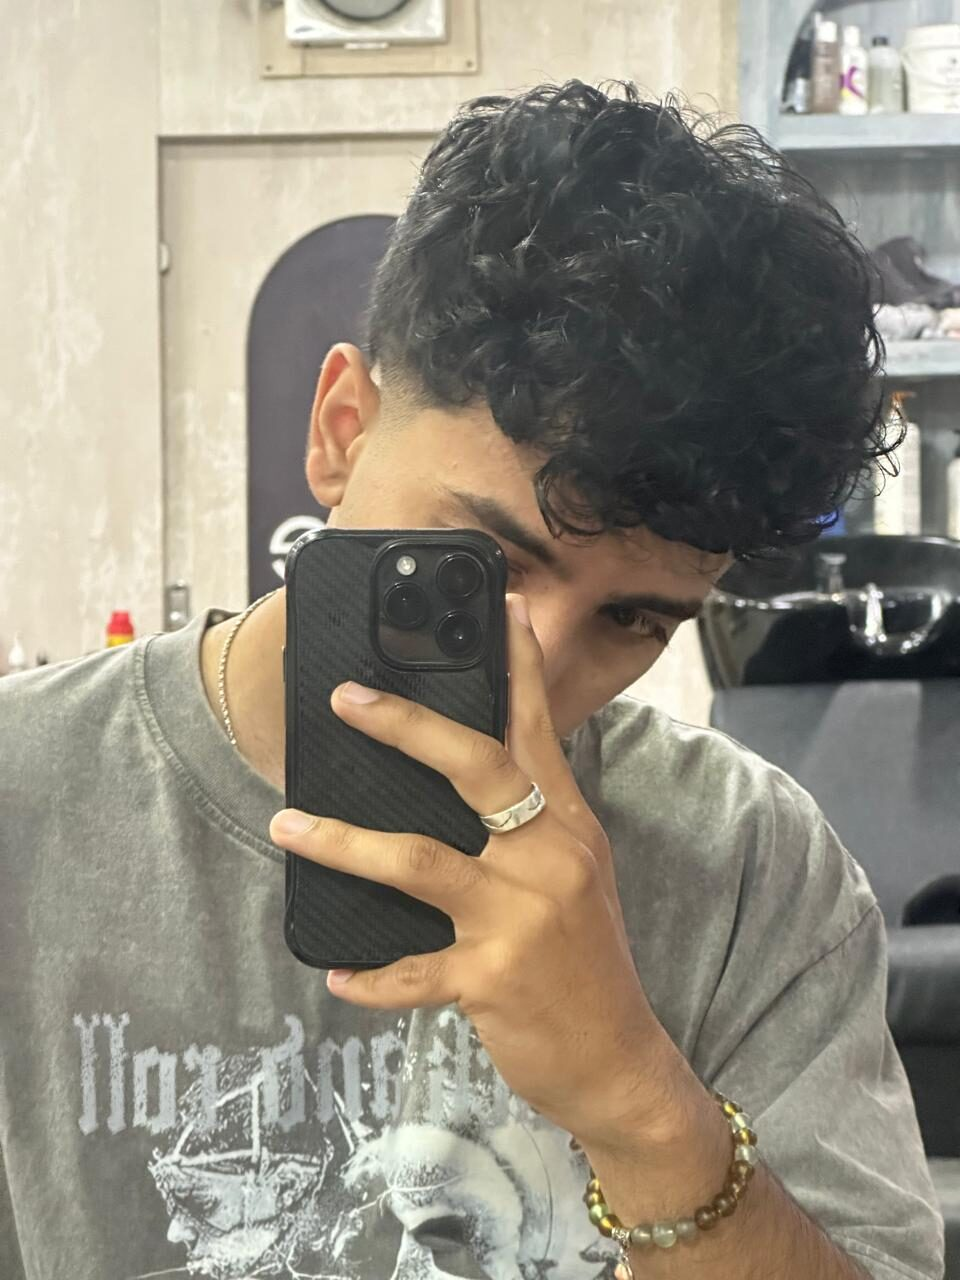
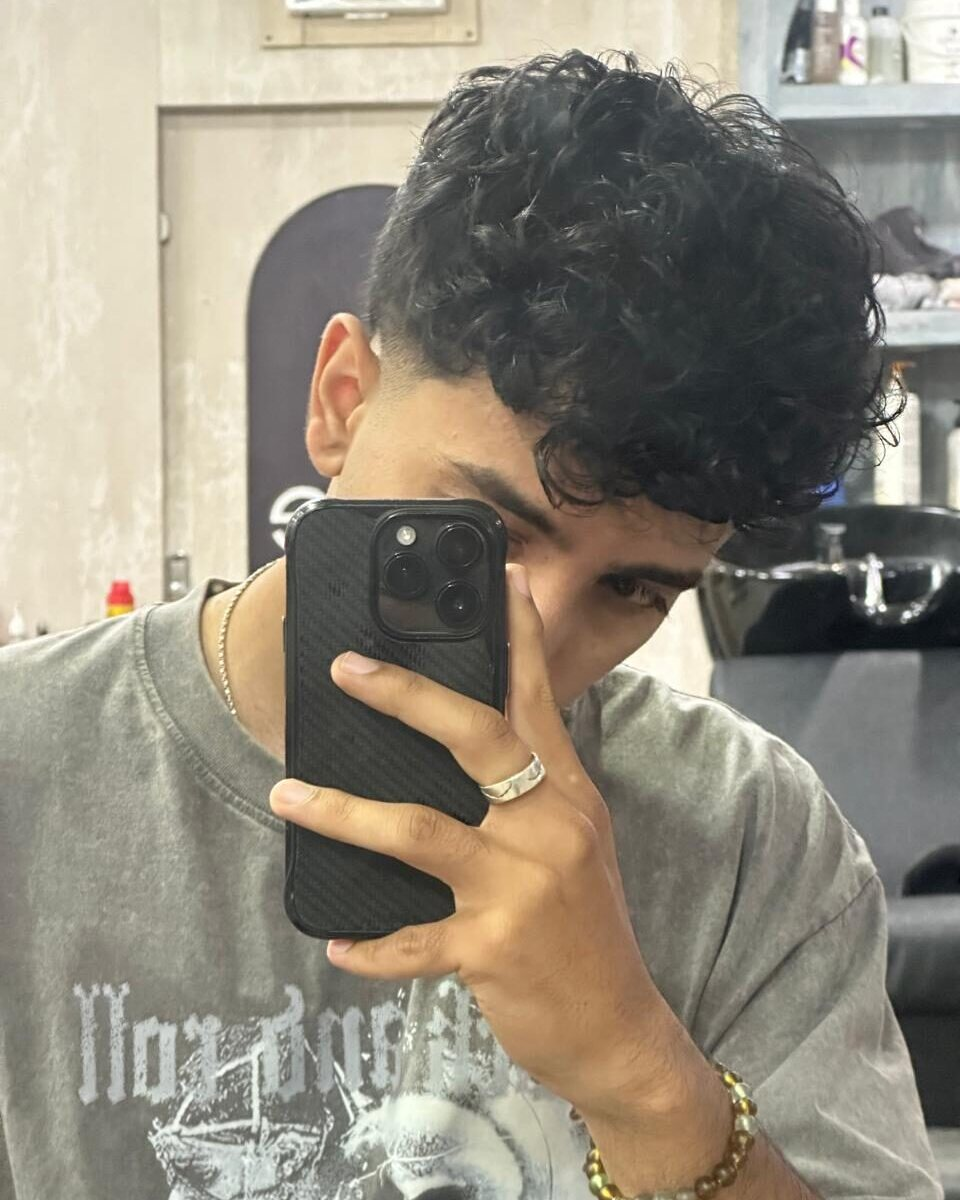
Album: cut to 15 strongest photos, even 4:5 grid
Drops the weak and low-res shots (grey beach, cake-only sixteen,
fisheye rafting, flare-edited hoodie, cluttered birthday table,
grainy balcony, Swayambhu selfie) and adds a candid concert profile
from Facebook. Every photo is cropped to 4:5 so the page is an even
3-column grid (2 on phones) instead of ragged masonry, and the
blanket desaturation filter is gone.

Claude-Session: https://claude.ai/code/session_01LHp3PWRoVvoeANHPXTnEN3

diff --git a/album.html b/album.html
@@ -35,7 +35,7 @@
     <header class="page-head">
       <div class="wrap-wide">
         <h1><span class="g">γ</span>album</h1>
-        <p>Mostly me. Desks, rivers, temples, the occasional gym. Newest first.</p>
+        <p>Mostly me. Desks, mirrors, mountains, the occasional gym. Newest first.</p>
       </div>
     </header>
 
@@ -57,13 +57,7 @@
           <img src="assets/album/2025-12-mirror.jpg" alt="Aarohan" loading="lazy">
         </figure>
         <figure class="reveal">
-          <img src="assets/album/2025-12-birthday.jpg" alt="Aarohan" loading="lazy">
-        </figure>
-        <figure class="reveal">
           <img src="assets/album/2025-11-profile.jpg" alt="Aarohan" loading="lazy">
-        </figure>
-        <figure class="reveal">
-          <img src="assets/album/2025-10-balcony.jpg" alt="Aarohan" loading="lazy">
         </figure>
         <figure class="reveal">
           <img src="assets/album/2025-08-himalaya.jpg" alt="Aarohan" loading="lazy">
@@ -86,23 +80,10 @@
           <img src="assets/album/2024-01-shades.jpg" alt="Aarohan" loading="lazy">
         </figure>
         <figure class="reveal">
-          <img src="assets/album/2022-07-swayambhu.jpg" alt="Aarohan" loading="lazy">
-        </figure>
-        <figure class="reveal">
-          <img src="assets/album/2022-04-rafting.jpg" alt="Aarohan" loading="lazy">
+          <img src="assets/album/2023-concert.jpg" alt="Aarohan" loading="lazy">
         </figure>
         <figure class="reveal">
           <img src="assets/album/2020-11-suit.jpg" alt="Aarohan" loading="lazy">
-        </figure>
-        <figure class="reveal">
-          <img src="assets/album/2019-12-sixteen.jpg" alt="sixteen candles" loading="lazy">
-          <figcaption><span>sixteen candles</span><span>dec 2019</span></figcaption>
-        </figure>
-        <figure class="reveal">
-          <img src="assets/album/2019-03-beach.jpg" alt="Aarohan" loading="lazy">
-        </figure>
-        <figure class="reveal">
-          <img src="assets/album/2019-hoodie.jpg" alt="Aarohan" loading="lazy">
         </figure>
         <figure class="reveal">
           <img src="assets/album/childhood-psp.jpg" alt="player one" loading="lazy">

diff --git a/css/4-components.css b/css/4-components.css
@@ -433,24 +433,21 @@ a.row .name::after {
 
 /* ---------- album ---------- */
 .album {
-  columns: 3 16rem;
-  column-gap: 1.4rem;
+  display: grid;
+  grid-template-columns: repeat(3, 1fr);
+  gap: 1.4rem;
   padding-bottom: 5rem;
 }
 
-.album figure {
-  break-inside: avoid;
-  margin: 0 0 1.4rem;
-}
+.album figure { margin: 0; }
 
+/* every photo is cropped to 4:5 so the grid stays even */
 .album img {
   width: 100%;
+  aspect-ratio: 4 / 5;
+  object-fit: cover;
   border: 1px solid var(--line);
-  filter: saturate(0.82) contrast(1.02);
-  transition: filter 0.6s ease;
 }
-
-.album figure:hover img { filter: none; }
 
 .album figcaption {
   margin-top: 0.5rem;

diff --git a/css/5-responsive.css b/css/5-responsive.css
@@ -28,6 +28,8 @@
 
   .moon { min-height: 54vh; }
 
+  .album { grid-template-columns: repeat(2, 1fr); gap: 0.8rem; }
+
   .sec { padding: 3.5rem 0; }
   .page-head { padding: 7rem 0 2rem; }
 }

diff --git a/desk/build.py b/desk/build.py
@@ -301,7 +301,7 @@ def album_html(items):
     body = f'''    <header class="page-head">
       <div class="wrap-wide">
         <h1><span class="g">γ</span>album</h1>
-        <p>Mostly me. Desks, rivers, temples, the occasional gym. Newest first.</p>
+        <p>Mostly me. Desks, mirrors, mountains, the occasional gym. Newest first.</p>
       </div>
     </header>
 
